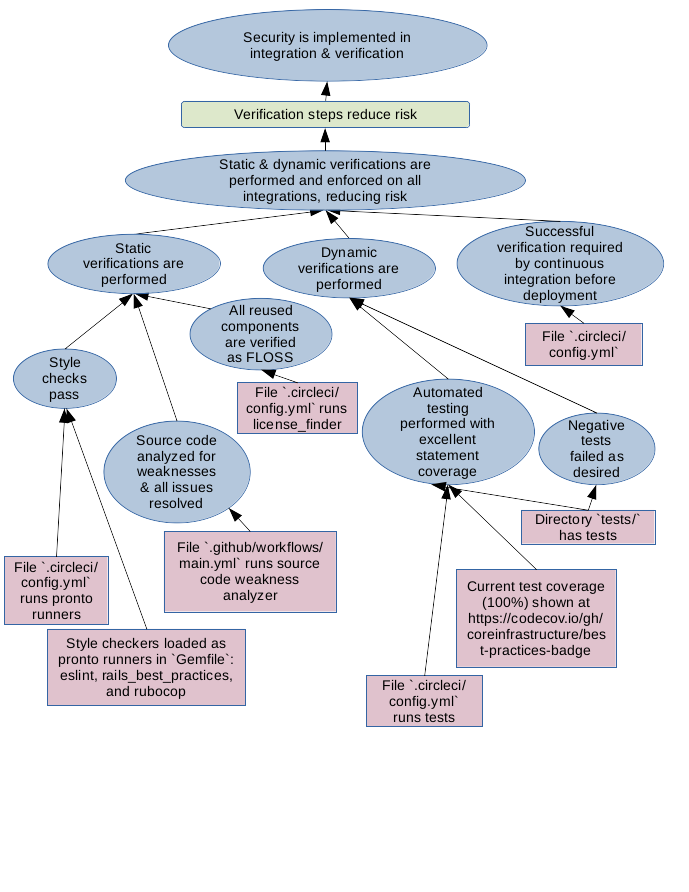
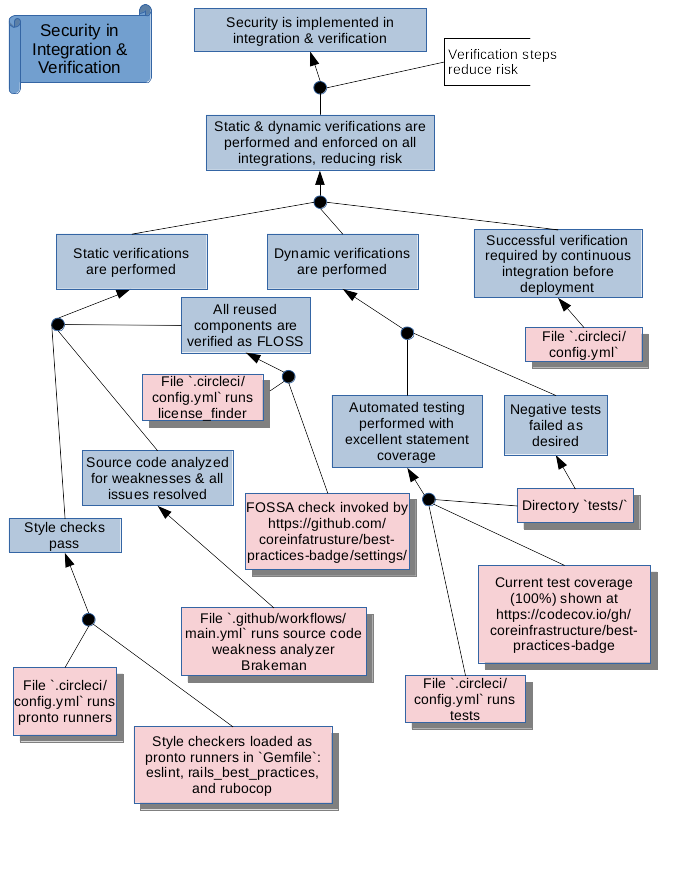
Change evidence fill color to light magenta 4
Fill colors make it even easier to see the icon differences
(if you can see color). We've been using the CAE edge colors
as the fill colors. For evidence, switch to light magenta 4.

diff --git a/doc/security.md b/doc/security.md
@@ -186,8 +186,8 @@ Later in this document we'll discuss the advantages of SACM.
 Here is the subset of the SACM graphical notation that we use:
 
 1. *Claim*.
-   A claim is a statement that can be either true or false (not both),
-   and is represented as a rectangle,
+   A claim is a statement that can be either true or false (not both).
+   A claim is represented as a rectangle (we fill them with light blue 3),
    A claim that supports another claim is also called a subclaim.
    It is equivalent to the CAE Claim and GSN Goal.
 2. *ArtifactReference*, which is used for  *evidence*.
@@ -201,7 +201,8 @@ Here is the subset of the SACM graphical notation that we use:
 3. *ArgumentReasoning* aka *argument*.
    An argument explains why the supporting claims and evidence justify
    the claim.
-   It is represented as a half-open rectangle.
+   It is represented as a half-open rectangle
+   (we fill them with light magenta 4).
 4. *AssertedInference* and *AssertedEvidence*, aka kinds of *relationships*.
    SACM terminology is that an AssertedInference shows that a claim supports
    another claim, and an AssertedEvidence shows that an ArtifactReference
@@ -3242,6 +3243,8 @@ Historically we used
 CAE notation is wonderfully simple:
 Claims (including subclaims) are ovals,
 arguments are rounded rectangles, and evidence (references) are rectangles.
+The GSN alternative was too complex (it uses many more symbols) and confusing
+to non-experts (e.g., it uses terms like "Strategy" for an argument).
 In addition, when we started the SACM graphical notation did not exist
 (it was not released until 2020).
 
@@ -3253,7 +3256,7 @@ format for assurance case data.
 However, we currently aren’t trying to exchange with other systems.
 So while we didn't know of anything intrinsically wrong with SACM,
 historically the SACM specification wasn’t
-focused on solving a problem we’re trying to solve.
+focused on solving any problems we’re trying to solve.
 In addition, we don’t know of any mature OSS tools that directly
 support the SACM data format.
 By policy, any tools we *depend* on must be OSS, and when we modify the
